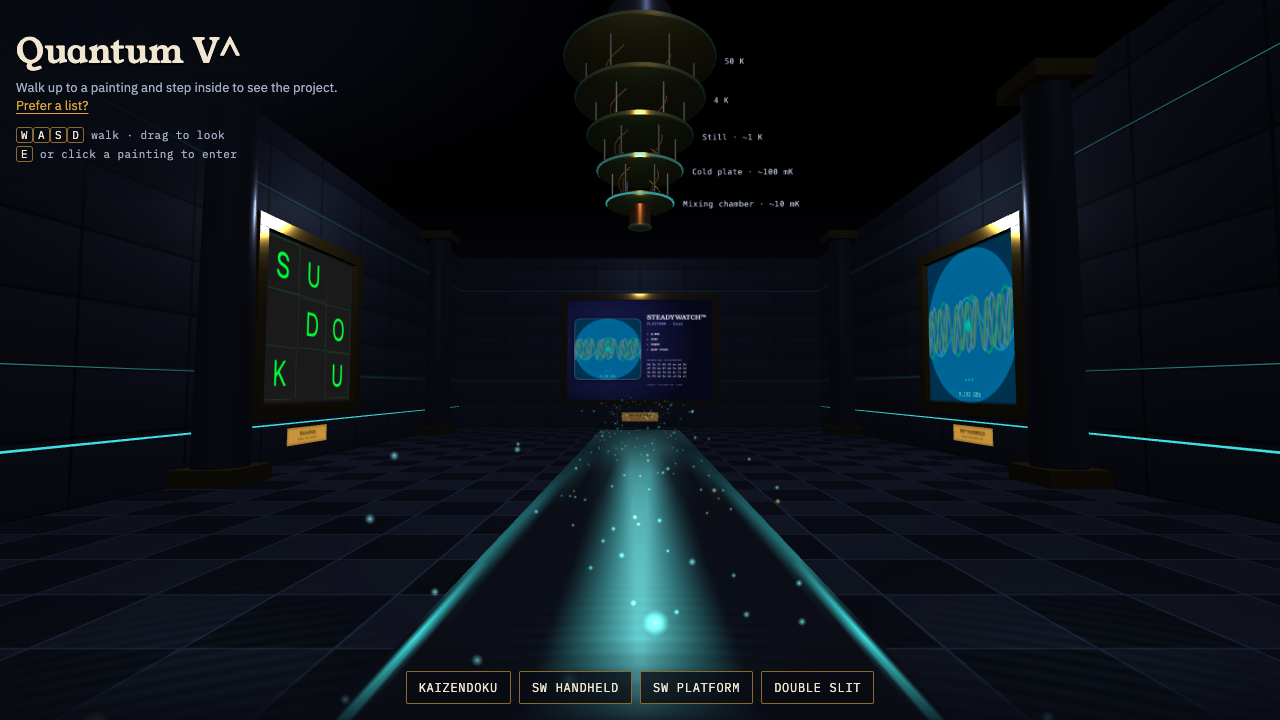
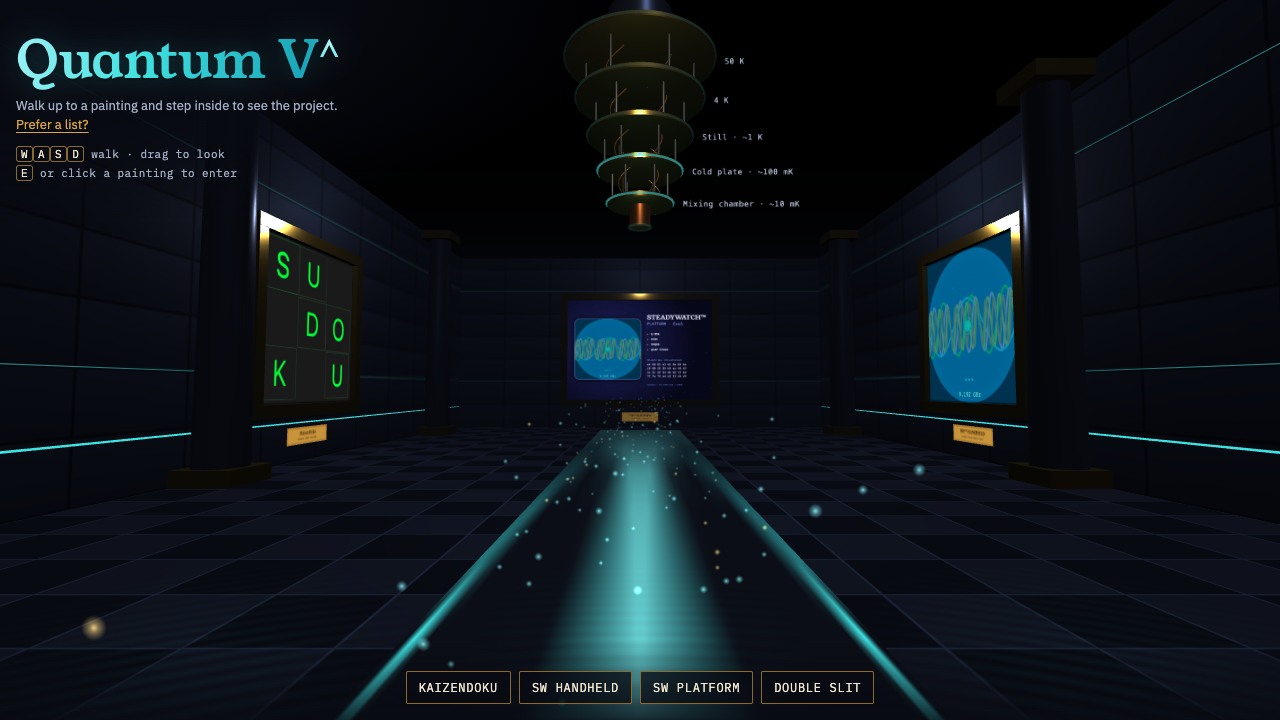
Polish the Quantum V^ title with a teal gradient
Parchment-to-teal gradient fill with a slow shimmer (off for reduced
motion), soft teal glow, larger display size and tighter tracking.
The caret is set as a raised mark; the heading text is unchanged.
README preview updated to match.

diff --git a/index.html b/index.html
@@ -46,7 +46,33 @@ body { background: var(--night); color: var(--parchment); font-family: var(--bod
 }
 #top > * { pointer-events: none; }
 #title { min-width: 0; max-width: 100%; }
-#title h1 { font-family: var(--display); font-weight: 400; font-size: clamp(22px, 3.2vw, 34px); line-height: 1.25; padding-block: 2px; margin: 0; color: var(--parchment); text-shadow: 0 2px 0 #000a; letter-spacing: .01em; overflow-wrap: anywhere; }
+#title h1 {
+  font-family: var(--display); font-weight: 400; font-size: clamp(30px, 4.4vw, 52px); line-height: 1.1;
+  padding-block: 4px; margin: 0; letter-spacing: -0.01em; overflow-wrap: anywhere;
+  color: var(--parchment); text-shadow: 0 2px 0 #000a;
+  font-feature-settings: "kern", "liga"; text-rendering: optimizeLegibility; -webkit-font-smoothing: antialiased;
+}
+/* parchment flowing into the hall's teal, with a slow shimmer */
+@supports ((-webkit-background-clip: text) or (background-clip: text)) {
+  #title h1 {
+    background: linear-gradient(100deg, var(--parchment) 0%, #c8fbff 30%, #3fe0e0 55%, #1aa6b8 75%, #c8fbff 90%, var(--parchment) 100%);
+    background-size: 220% 100%; background-position: 0% 50%;
+    -webkit-background-clip: text; background-clip: text;
+    color: transparent; -webkit-text-fill-color: transparent; text-shadow: none;
+    filter: drop-shadow(0 0 14px rgba(63, 224, 224, .28)) drop-shadow(0 2px 0 rgba(0, 0, 0, .55));
+    animation: titleShimmer 9s ease-in-out infinite alternate;
+  }
+}
+@keyframes titleShimmer { from { background-position: 0% 50%; } to { background-position: 100% 50%; } }
+@media (prefers-reduced-motion: reduce) { #title h1 { animation: none; } }
+/* the caret sits raised and lighter, like a superscript mark */
+#title h1 .caret { display: inline-block; font-size: .62em; transform: translateY(-.42em); margin-left: .04em; }
+@supports ((-webkit-background-clip: text) or (background-clip: text)) {
+  #title h1 .caret {   /* a raised inline-block is painted on its own, so it carries its own fill */
+    background: linear-gradient(180deg, #c8fbff, #3fe0e0);
+    -webkit-background-clip: text; background-clip: text; color: transparent; -webkit-text-fill-color: transparent;
+  }
+}
 #title a.listlink { color: var(--gilt); pointer-events: auto; text-underline-offset: 3px; }
 #title p { margin: 4px 0 0; font-size: 13px; line-height: 1.45; color: var(--muted); max-width: 46ch; }
 #controls {
@@ -127,7 +153,7 @@ body { background: var(--night); color: var(--parchment); font-family: var(--bod
 
 <header class="hud" id="top">
 <div id="title">
-  <h1>Quantum V^</h1>
+  <h1>Quantum V<span class="caret">^</span></h1>
   <p>Walk up to a painting and step inside to see the project. <a class="listlink" href="https://github.com/Infin-8/Projects#apps">Prefer a list?</a></p>
 </div>
 <div id="controls">
